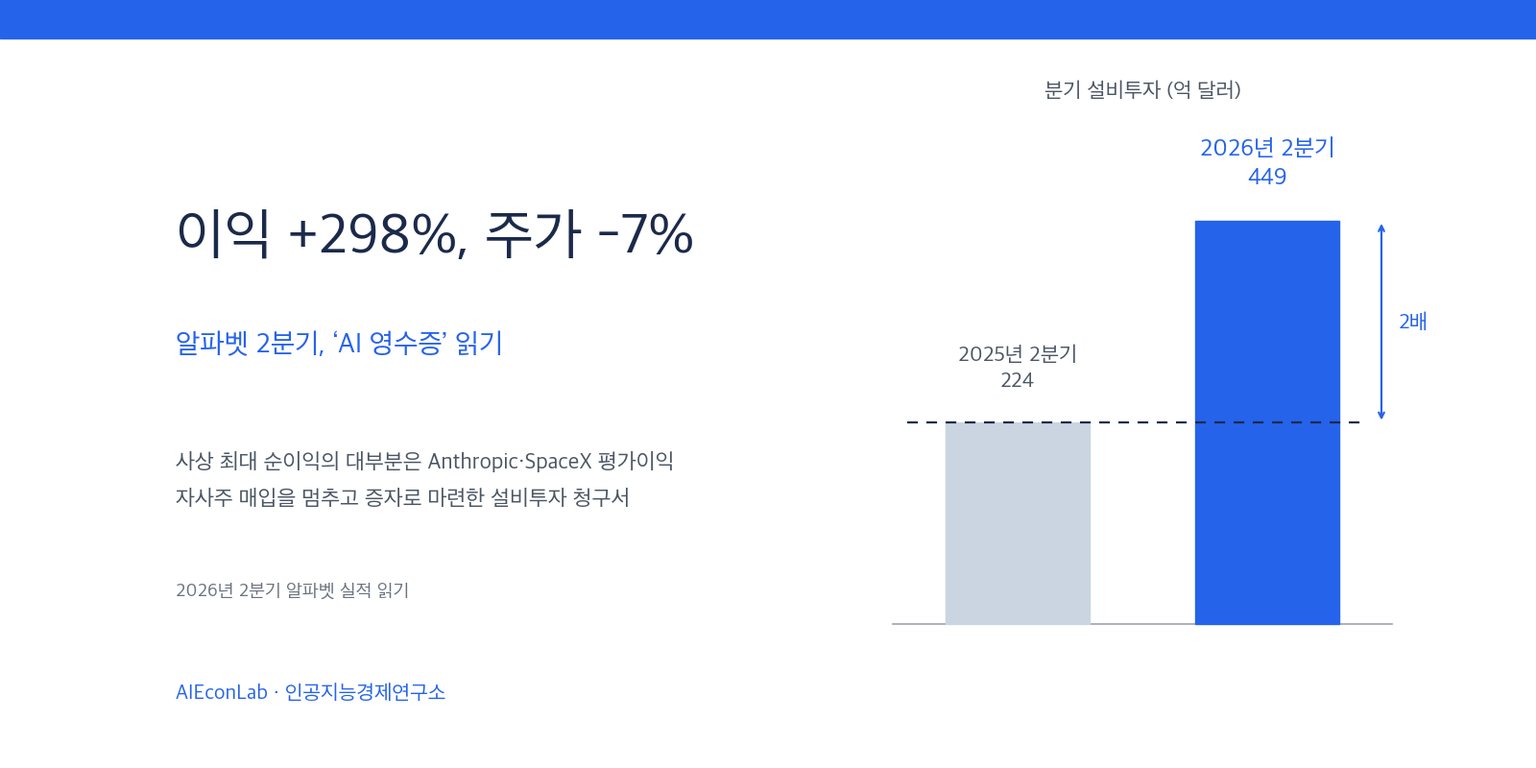
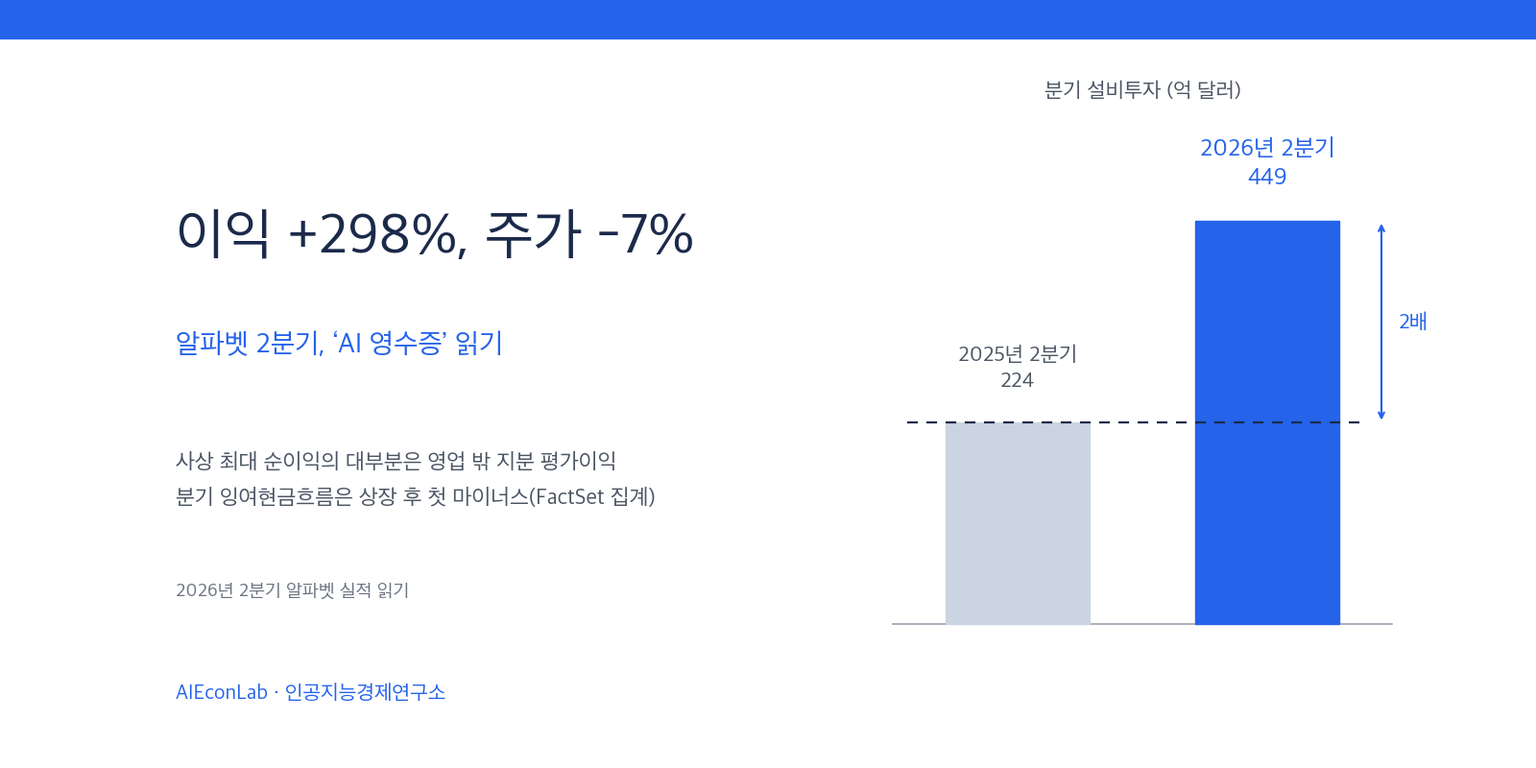
fix(trend14): 게시 전 리뷰 반영 — 인과·출처 귀속 교정, 본문 그림 static 경로 이관
- 증자 인과 교정: '부족한 현금 조달' → TTM FCF +533억·현금 2,425억 병기(공식 조정표 확인)
- 평가이익 귀속: 10-Q 기준 SpaceX(6/12 상장, 지분 4.9%·940억)+미공개 비상장사로 정정,
  Anthropic은 보도·BofA 추정으로 분리, 자체 14% 계산 삭제
- EPS 6.26달러를 발표문 각주 공식치로 귀속(219억·771억 병기), FCF 첫 마이너스는 FactSet 집계로 귀속
- 수주잔고 '두 배' 오류 → 1,060억→5,140억(4.85배), 서버 60%는 2분기 기준으로 한정
- 감가상각 1/6 병치 → 증가율 대비(2배 vs +42%)와 시점 불일치 명시, 그림 2 재생성
- 한국 GDI 연결을 trend13 식별 한계와 일관된 '검증 가설'로 하향, Azure 35% 기준선 삭제
- SK하이닉스 컨센서스 7월 하순 집계(83조/64조)로 갱신, 은유를 '영수증' 중심으로 정리
- 본문 그림 assets→static 이관(404 방지), 커버 문구 교정, 검증 README 전면 갱신

Changed region(s): [[0.0938, 0.5938, 0.4375, 0.6562]]

diff --git a/docs/03-analysis/alphabet-receipts/scripts/make_cover.py b/docs/03-analysis/alphabet-receipts/scripts/make_cover.py
@@ -49,20 +49,19 @@ ax.add_patch(Rectangle((0, 760), 1600, 40, color=BLUE, zorder=5))
 
 # ---- left text column ----
 LX = 183
-ax.text(LX, 555, "이익 +298%, 주가 -7%", fontsize=42, color=NAVY,
-        fontweight="bold", va="center", ha="left")
-ax.text(LX, 442, "알파벳 2분기, ‘AI 영수증’ 읽기", fontsize=21,
-        color=BLUE, va="center", ha="left", fontweight="medium")
-
-ax.text(LX, 300, "사상 최대 순이익의 대부분은 Anthropic·SpaceX 평가이익\n"
-                 "자사주 매입을 멈추고 증자로 마련한 설비투자 청구서",
-        fontsize=16.5, color=GRAY, va="center", ha="left", linespacing=1.9)
-
-ax.text(LX, 185, "2026년 2분기 알파벳 실적 읽기", fontsize=14,
-        color=LGRAY, va="center", ha="left")
-
-ax.text(LX, 78, "AIEconLab · 인공지능경제연구소", fontsize=15.5,
-        color=BLUE, va="center", ha="left", fontweight="medium")
+left_texts = [
+    ax.text(LX, 555, "이익 +298%, 주가 -7%", fontsize=42, color=NAVY,
+            fontweight="bold", va="center", ha="left"),
+    ax.text(LX, 442, "알파벳 2분기, ‘AI 영수증’ 읽기", fontsize=21,
+            color=BLUE, va="center", ha="left", fontweight="medium"),
+    ax.text(LX, 300, "사상 최대 순이익의 대부분은 영업 밖 지분 평가이익\n"
+                     "분기 잉여현금흐름은 상장 후 첫 마이너스(FactSet 집계)",
+            fontsize=16.5, color=GRAY, va="center", ha="left", linespacing=1.9),
+    ax.text(LX, 185, "2026년 2분기 알파벳 실적 읽기", fontsize=14,
+            color=LGRAY, va="center", ha="left"),
+    ax.text(LX, 78, "AIEconLab · 인공지능경제연구소", fontsize=15.5,
+            color=BLUE, va="center", ha="left", fontweight="medium"),
+]
 
 # ---- right graphic: quarterly capex, doubled in a year ----
 ax.text(1190, 706, "분기 설비투자 (억 달러)", fontsize=16, color=GRAY,
@@ -99,6 +98,14 @@ ax.annotate("", xy=(bx2 + bw + 44, base_y + h_now),
             arrowprops=dict(arrowstyle="<->", color=BLUE, lw=1.6), zorder=5)
 ax.text(bx2 + bw + 62, base_y + (h_prev + h_now) / 2, "2배", fontsize=16,
         color=BLUE, ha="left", va="center", fontweight="bold")
+
+# 렌더링 후 잘림·침범 검사: 좌측 텍스트가 우측 그래픽 영역(x=930~)을 넘지 않는지
+fig.canvas.draw()
+rend = fig.canvas.get_renderer()
+for t in left_texts:
+    x1 = t.get_window_extent(renderer=rend).x1
+    assert x1 < 930, ("좌측 텍스트가 그래픽 영역 침범", t.get_text()[:14], round(x1))
+print("layout checks passed: left column clear of graphic area")
 
 args.out.parent.mkdir(parents=True, exist_ok=True)
 fig.savefig(args.out)

diff --git a/docs/03-analysis/alphabet-receipts/scripts/fig02_capex_depreciation.py b/docs/03-analysis/alphabet-receipts/scripts/fig02_capex_depreciation.py
@@ -8,7 +8,8 @@
 
 검산(assert):
 - 설비투자 2.00배, 감가상각 1.42배
-- 2026년 2분기 감가상각/설비투자 = 15.8% (약 6분의 1)
+- 두 항목은 서로 다른 시점의 자산을 가리키므로 비율(당기 감가상각/당기 설비투자)을
+  '당기 지출의 비용 반영률'로 해석하지 않는다(그림·주석에도 그렇게 표기하지 않음)
 
 사용법: python3 fig02_capex_depreciation.py [--out PNG] [--font FONT]
 의존성: matplotlib
@@ -29,8 +30,6 @@ DEP = {"2025 2분기": 4_998, "2026 2분기": 7_104}
 
 assert abs(CAPEX["2026 2분기"] / CAPEX["2025 2분기"] - 2.0) < 0.01
 assert abs(DEP["2026 2분기"] / DEP["2025 2분기"] - 1.42) < 0.01
-ratio = DEP["2026 2분기"] / CAPEX["2026 2분기"]
-assert abs(ratio - 1 / 6.32) < 0.005  # 약 6분의 1
 
 
 def main():
@@ -64,7 +63,7 @@ def main():
                     fontsize=15.5, fontweight="bold", ha="center", va="bottom",
                     color=BLUE if v in cap else "#57647a"))
 
-    ann = ax.annotate("지출의 약 6분의 1만\n지금 비용으로 반영",
+    ann = ax.annotate("지출은 2배로 뛰는 동안\n비용화(감가상각)는 +42%",
                       xy=(xs[1] + bw / 2 + 0.13, dep[1] * 0.55),
                       xytext=(1.36, 245), fontsize=13.5, fontweight="bold",
                       color=NAVY, ha="center", va="center",
@@ -89,7 +88,7 @@ def main():
         t.set_color(NAVY)
 
     fig.subplots_adjust(left=0.10, right=0.97, top=0.89, bottom=0.17)
-    note1 = fig.text(0.10, 0.068, "주: 설비투자는 취득 시점이 아니라 이후 수년에 걸쳐 감가상각으로 비용화된다. 두 항목 모두 분기 기준.",
+    note1 = fig.text(0.10, 0.068, "주: 감가상각은 과거에 취득한 자산에서 발생해 당기 설비투자와 1대 1로 대응하지 않는다. 두 항목 모두 분기 기준.",
                      fontsize=11.8, color=NOTE)
     note2 = fig.text(0.10, 0.028, "자료: Alphabet 2026년 2분기 실적 발표문(2026.7.22) 현금흐름표  |  계산: AIEconLab",
                      fontsize=11.8, color=NOTE)

diff --git a/docs/03-analysis/alphabet-receipts/scripts/fig01_cash_receipts.py b/docs/03-analysis/alphabet-receipts/scripts/fig01_cash_receipts.py
@@ -103,7 +103,7 @@ def main():
     fig.subplots_adjust(left=0.10, right=0.97, top=0.90, bottom=0.235)
     note1 = fig.text(0.10, 0.112, "주: 잉여현금흐름(-58.55억 달러, 표기 -59) = 영업활동 현금흐름 - 유형자산 취득(비GAAP).",
                      fontsize=11.8, color=NOTE)
-    note2 = fig.text(0.10, 0.070, "‘상장 후 첫 마이너스’는 현지 보도의 집계이며, 막대 표기는 억 달러 반올림.",
+    note2 = fig.text(0.10, 0.070, "‘상장 후 첫 마이너스’는 FactSet 집계(현지 보도 인용)이며, 막대 표기는 억 달러 반올림.",
                      fontsize=11.8, color=NOTE)
     note3 = fig.text(0.10, 0.028, "자료: Alphabet 2026년 2분기 실적 발표문(2026.7.22) 현금흐름표  |  계산: AIEconLab",
                      fontsize=11.8, color=NOTE)

diff --git a/content/english/post/trend14_alphabet_receipts.md b/content/english/post/trend14_alphabet_receipts.md
@@ -7,7 +7,7 @@ images:
 #author
 author: "송하윤 (Hayun Song)"
 # description
-description: "알파벳 2026년 2분기 실적의 세 겹 읽기 — 순이익 1,121억 달러의 대부분을 만든 Anthropic·SpaceX 평가이익 980억 달러, 상장 후 처음이라고 보도된 잉여현금흐름 -59억 달러와 연간 2,000억 달러로 올라간 설비투자 가이던스, 클라우드 +82%와 수주잔고 5,140억 달러의 매출 증거, 그리고 7월 29~30일 SK하이닉스·FOMC·마이크로소프트·메타·미국 GDP로 이어지는 검증 일정"
+description: "알파벳 2026년 2분기 실적의 세 겹 읽기 — 순이익 1,121억 달러의 대부분을 만든 지분증권 평가이익 990억 달러의 착시, FactSet 집계상 상장 후 처음인 분기 잉여현금흐름 -59억 달러와 2,000억 달러대로 올라간 설비투자 가이던스, 클라우드 +82%와 수주잔고 5,140억 달러의 매출 증거, 그리고 7월 29~30일 SK하이닉스·FOMC·마이크로소프트·메타·미국 GDP로 이어지는 검증 일정"
 # Taxonomies
 categories: ["AI_트렌드"]
 tags: ["AI","ECONOMICS","BIGTECH","CAPEX","CLOUD","SEMICONDUCTOR"]
@@ -17,29 +17,29 @@ draft: false
 
 지난 22일(현지시간) 알파벳이 2026년 2분기 실적을 발표했습니다. 매출은 1,198억 달러로 전년 동기 대비 24% 늘었고, 보통주주 귀속 순이익은 1,121억 달러로 **298% 늘었습니다**. 회사 역사상 가장 큰 분기 이익입니다. 그리고 이튿날(23일) 뉴욕 증시에서 알파벳 주가는 **약 7% 급락**해 4월 중순 이후 가장 낮은 수준으로 내려갔습니다.
 
-사상 최대 이익에 주가 급락이라는 조합은 형용모순처럼 보이지만, 이번 실적 시즌에 월가가 빅테크를 심사하는 기준을 알면 자연스럽게 읽힙니다. 미국 언론은 그 기준을 ‘영수증(receipts)’이라는 단어로 요약합니다. 빅테크가 올해 합쳐 7,000억 달러 가까이 쓰겠다고 예고한 AI 설비투자가 정말 돈이 되는지, 증빙을 내놓으라는 것입니다. 알파벳은 이번 시즌 빅테크 가운데 처음으로 답안지를 냈고, 시장은 이익의 크기가 아니라 영수증의 항목을 읽었습니다.
+사상 최대 이익에 주가 급락이라는 조합은 형용모순처럼 보이지만, 이번 실적 시즌에 월가가 빅테크를 심사하는 기준을 알면 자연스럽게 읽힙니다. 미국 언론은 그 기준을 ‘영수증(receipts)’이라는 단어로 요약합니다. 빅테크가 올해 합쳐 7,000억 달러 가까이 쓰겠다고 예고한 AI 설비투자가 정말 돈이 되는지, 증빙을 내놓으라는 것입니다. 알파벳은 이번 시즌 빅테크 가운데 처음으로 영수증을 내밀었고, 시장은 이익의 크기가 아니라 영수증의 항목을 읽었습니다.
 
 이 글은 세 가지를 합니다. 먼저 1,121억 달러라는 숫자에서 착시를 걷어내고, 다음으로 이번 발표의 진짜 뉴스인 현금흐름과 커진 청구서를 읽고, 마지막으로 이것이 다음 주 한국의 일정과 어떻게 연결되는지 봅니다.
 
-## 걷어내기: 경쟁사가 만들어 준 사상 최대 이익
+## 걷어내기: 영업 밖에서 온 980억 달러
 
-먼저 이익의 분해입니다. 이번 분기 세전이익 1,388억 달러 가운데 영업이익은 408억 달러입니다. 전년 동기보다 30% 늘었고 영업이익률도 2%포인트 오른 34%였으니 그 자체로 좋은 성적이지만, 순이익을 네 배 가까이로 만든 힘은 아닙니다. 나머지를 채운 것은 **기타수익 980억 달러**이며(전년 동기에는 27억 달러였습니다), 그 정체를 회사 스스로 [발표문](https://s206.q4cdn.com/479360582/files/doc_financials/2026/q2/2026q2-alphabet-earnings-release.pdf)에 “주로 지분증권의 순미실현 평가이익”이라고 적었습니다.
+먼저 이익의 분해입니다. 이번 분기 세전이익 1,388억 달러 가운데 영업이익은 408억 달러입니다. 전년 동기보다 30% 늘었고 영업이익률도 2%포인트 오른 34%였으니 그 자체로 좋은 성적이지만, 순이익을 네 배 가까이로 만든 힘은 아닙니다. 나머지를 채운 것은 **기타수익 980억 달러**이며(전년 동기에는 27억 달러였습니다), 그 정체를 회사 스스로 [발표문](https://s206.q4cdn.com/479360582/files/doc_financials/2026/q2/2026q2-alphabet-earnings-release.pdf)에 “주로 지분증권의 순미실현 평가이익”이라고 적었습니다. 기타수익 안의 지분증권 이익만 따로 보면 990억 달러이고, 다른 항목의 손실이 이를 일부 상쇄한 결과가 980억 달러입니다.
 
-평가이익의 출처가 흥미롭습니다. 현지 보도를 종합하면 가장 큰 몫은 알파벳이 약 14%를 보유한 Anthropic입니다. Anthropic의 기업가치는 2분기 중 650억 달러 규모 투자 유치를 거치며 3,800억 달러에서 9,650억 달러로 뛰었고, 뱅크오브아메리카는 이 재평가만으로 약 800억 달러의 평가이익이 발생한 것으로 추산합니다(14% 지분에 5,850억 달러의 가치 상승을 곱하는 단순 계산으로도 820억 달러 안팎이 나옵니다). 여기에 SpaceX 지분 등의 평가이익이 더해집니다. 현행 미국 회계기준은 이런 지분 가치의 변동을 실현 여부와 무관하게 당기 손익에 반영하도록 하고 있으니, 절차상 이상한 숫자는 아닙니다.
+평가이익의 출처는 공식 확인과 추정을 구분해 읽어야 합니다. 분기 보고서(10-Q)가 밝힌 주된 원천은 두 곳, 곧 지난 6월 12일 상장한 SpaceX(알파벳 지분율 약 4.9%, 6월 말 평가액 940억 달러)와 이름을 공개하지 않은 비상장사이며, 종목별 기여액은 공개되지 않았습니다. 이 비상장사를 알파벳이 약 14%를 보유한 Anthropic으로 보는 것이 현지 보도들의 일치된 추정입니다. Anthropic의 기업가치는 2분기 중 650억 달러 규모 투자 유치를 거치며 3,800억 달러에서 9,650억 달러로 뛰었고, 뱅크오브아메리카는 이 재평가에서 약 800억 달러의 평가이익이 발생했다고 추산합니다. 현행 미국 회계기준은 상장 지분의 가격 변동은 물론, 비상장 지분도 이번 투자 유치처럼 관측 가능한 거래가 생기면 재측정해 당기 손익에 반영하도록 하니, 절차상 이상한 숫자는 아닙니다.
 
-다만 세 가지 단서가 붙습니다. 첫째, 이것은 현금이 들어온 이익이 아니라 장부 위의 이익입니다. 둘째, 자사의 가장 직접적인 프런티어 모델 경쟁사의 몸값이 올라서 생긴 이익입니다. 경쟁에서 이기면 본업이 벌고 경쟁사가 앞서가면 지분이 버는, 경쟁의 양쪽에 걸쳐 둔 포트폴리오의 결과인 셈입니다. 셋째, 시장은 이 숫자를 실력으로 치지 않았습니다. 월가 집계로 주당순이익 9.11달러 가운데 6.26달러가 투자 평가이익의 기여였고, 이를 걷어낸 영업의 성적은 시장 예상을 크게 벗어나지 않는 수준이었습니다. 순이익 급증분의 대부분이 영업 밖에서 왔다면, 심사는 결국 영업 안쪽의 두 장부, 곧 현금과 매출로 넘어갑니다.
+다만 세 가지 단서가 붙습니다. 첫째, 이것은 현금이 들어온 이익이 아니라 장부 위의 이익입니다. 둘째, 보도의 추정이 맞는다면 이 이익의 큰 몫은 자사의 가장 직접적인 프런티어 모델 경쟁사 몸값이 올라서 생긴 셈이 됩니다. 경쟁에서 이기면 본업이 벌고 경쟁사가 앞서가면 지분이 버는, 경쟁의 양쪽에 걸쳐 둔 포트폴리오입니다. 셋째, 시장은 이 숫자를 실력으로 치지 않았습니다. 발표문 각주는 지분증권 이익 990억 달러가 법인세를 219억 달러, 순이익을 771억 달러, 희석 주당순이익을 6.26달러(9.11달러 중) 늘렸다고 직접 명시합니다. 이를 걷어낸 영업의 성적은 시장 예상을 크게 벗어나지 않는 수준이었습니다. 순이익 급증분의 대부분이 영업 밖에서 왔다면, 심사는 결국 영업 안쪽의 두 장부, 곧 현금과 매출로 넘어갑니다.
 
-## 진짜 뉴스: 번 것보다 많이 썼고, 그래서 조달했다
+## 현금의 산수: 분기 잉여현금흐름은 음수, 조달은 확대
 
-이번 분기 알파벳은 영업활동으로 391억 달러의 현금을 만들었고, 설비투자에 449억 달러를 썼습니다. 잉여현금흐름은 **-59억 달러**. 분기 잉여현금흐름이 마이너스로 돌아선 것은 상장 이후 처음이라는 보도가 나왔습니다. 설비투자 449억 달러는 전년 동기(224억 달러)의 정확히 두 배이고, 분기 매출의 37%에 해당합니다.
+이번 분기 알파벳은 영업활동으로 391억 달러의 현금을 만들었고, 설비투자에 449억 달러를 썼습니다. 잉여현금흐름은 **-59억 달러**. FactSet 집계로는 2004년 상장 이후 처음 있는 분기 마이너스입니다. 발표문의 조정표가 보여주는 경로도 뚜렷합니다. 분기 잉여현금흐름은 최근 네 분기 동안 245억 → 246억 → 101억 → -59억 달러로 내려왔습니다. 설비투자 449억 달러는 전년 동기(224억 달러)의 정확히 두 배이고, 분기 매출의 37%에 해당합니다.
 
 ![영업현금흐름 391억 달러에서 설비투자 449억 달러를 빼면 잉여현금흐름은 -59억 달러](/images/post/trend14/fig01_cash_receipts.png "그림 1: 2026년 2분기 알파벳 현금의 산수. 영업활동 현금흐름 391억 달러, 설비투자(유형자산 취득) 449억 달러, 잉여현금흐름 -59억 달러(반올림 전 -58.6억 달러). (자료: 알파벳 2분기 실적 발표문 현금흐름표. 계산: 필자)")
 
 <small>[그림 1 원본 크게 보기](/images/post/trend14/fig01_cash_receipts.png)</small>
 
-부족한 현금은 조달로 메웠습니다. 발표문에 따르면 알파벳은 6월에 보통주와 의무전환우선주를 발행해 **496억 달러를 순조달**했고, 사용 목적에 “AI 인프라와 글로벌 컴퓨트 확장을 위한 설비투자를 포함한 일반 기업 목적”을 명시했습니다. 분기 중 선순위 무담보 채권으로도 203억 달러를 조달했습니다. 전년 동기 132억 달러였던 자사주 매입은 이번 분기 0이 됐습니다. 번 현금을 주주에게 돌려주던 회사가 주주에게 주식을 팔아 설비투자 자금을 마련하는 회사로 자세를 바꾼 것이고, 그 흔적은 재무상태표에 고스란히 쌓였습니다. 반년 새 순유형자산은 2,466억 달러에서 3,212억 달러로 746억 달러 늘었고, 장기부채는 465억 달러에서 982억 달러로 두 배 이상이 됐습니다.
+이것을 유동성 부족으로 읽어서는 안 됩니다. 같은 조정표 기준으로 최근 12개월 잉여현금흐름은 여전히 533억 달러 흑자이고, 분기 말 보유 현금·유가증권은 2,425억 달러에 이릅니다. 정확한 독법은 이렇습니다. 지출이 분기 영업현금을 앞지르기 시작하자 회사가 조달의 폭을 넓혔습니다. 발표문에 따르면 알파벳은 6월에 보통주와 의무전환우선주를 발행해 **496억 달러를 순조달**했고, 사용 목적에 “AI 인프라와 글로벌 컴퓨트 확장을 위한 설비투자를 포함한 일반 기업 목적”을 명시했습니다. 분기 중 선순위 무담보 채권으로도 203억 달러를 조달했습니다. 전년 상반기 283억 달러였던 자사주 매입은 올해 상반기 집행이 0입니다. 주주 환원에 쓰이던 현금 여력이 설비투자 쪽으로 옮겨 가는 방향 전환이고, 그 흔적은 재무상태표에 쌓였습니다. 반년 새 순유형자산은 2,466억 달러에서 3,212억 달러로 746억 달러 늘었고, 장기부채는 465억 달러에서 982억 달러로 두 배 이상이 됐습니다.
 
-그리고 가이던스. 회사는 올해 연간 설비투자 전망을 1,800억~1,900억 달러에서 **1,950억~2,050억 달러**로 150억 달러 올렸고(약 60%는 서버, 나머지는 데이터센터와 네트워킹), 내년에는 더 늘어난다고 예고했습니다. 중간값 2,000억 달러는 2024년 연간 설비투자(525억 달러)의 약 네 배입니다. 업계 전체로 보면, 지난 5월 집계된 5개사(마이크로소프트·알파벳·아마존·메타·오라클) 합산 전망 6,600억~6,900억 달러에 ‘7,000억 달러’라는 헤드라인이 이미 붙어 있었는데, 알파벳 한 곳의 상향만으로 그 상단이 다시 밀려 올라갔습니다.
+그리고 가이던스. 회사는 올해 연간 설비투자 전망을 1,800억~1,900억 달러에서 **1,950억~2,050억 달러**로 150억 달러 올렸고, 내년에는 더 늘어난다고 예고했습니다. 콘퍼런스콜 보도에 따르면 2분기 기술 인프라 투자의 약 60%는 서버, 나머지는 데이터센터와 네트워킹 몫이었습니다. 중간값 2,000억 달러는 2024년 연간 설비투자(525억 달러)의 약 네 배입니다. 업계 전체로 보면, 지난 5월 집계된 5개사(마이크로소프트·알파벳·아마존·메타·오라클) 합산 전망 6,600억~6,900억 달러에 ‘7,000억 달러’라는 헤드라인이 이미 붙어 있었는데, 알파벳 한 곳의 상향만으로 그 상단이 다시 밀려 올라갔습니다.
 
 주가가 판정한 것이 바로 이 대목입니다. 이튿날의 7% 하락으로 알파벳 주가는 넉 달 만에 100일 이동평균선 아래로 내려갔고, 다음 주 실적 발표를 앞둔 메타 등의 주가도 함께 눌렸습니다. 시장이 문제 삼은 것은 실적이 아니라 청구서가 커지는 속도였습니다.
 
@@ -47,39 +47,40 @@ draft: false
 
 청구서만 커진 것은 아닙니다. 지출의 반대편 증거도 이번 발표에서 뚜렷해졌습니다.
 
-클라우드 부문 매출은 248억 달러로 **82% 늘며** 성장률이 크게 가속됐고(회사는 기업용 AI 인프라와 AI 솔루션 수요를 이유로 들었습니다), 부문 영업이익은 28억 달러에서 88억 달러로, 영업이익률은 20.7%에서 35.6%로 뛰었습니다. 아직 매출로 잡히지 않은 계약, 곧 수주잔고는 5,140억 달러로 1년 새 두 배 가까이 늘었다는 집계입니다. 물량 지표도 있습니다. 발표문에서 순다르 피차이 CEO는 Gemini 모델이 분당 220억 개의 API 토큰을 처리하고 Gemini 앱의 월간 이용자가 9억 5,000만 명이라고 밝혔는데, 토큰 처리량의 직전 분기 공개치는 160억 개였습니다. [‘예측이 값싸지는 시대’](/post/column3_economists_job/)에서 다뤘던 방향 그대로, 단가는 떨어지는데 물량과 매출이 그보다 빠르게 늘고 있는 것입니다.
+클라우드 부문 매출은 248억 달러로 **82% 늘며** 성장률이 크게 가속됐고(회사는 기업용 AI 인프라와 AI 솔루션 수요를 이유로 들었습니다), 부문 영업이익은 28억 달러에서 88억 달러로, 영업이익률은 20.7%에서 35.6%로 뛰었습니다. 아직 매출로 잡히지 않은 계약, 곧 수주잔고는 5,140억 달러로, 1년 전 공개치(1,060억 달러)의 다섯 배 가까이가 됐습니다. 물량 지표도 있습니다. 발표문에서 순다르 피차이 CEO는 Gemini 모델이 분당 220억 개의 API 토큰을 처리하고 Gemini 앱의 월간 이용자가 9억 5,000만 명이라고 밝혔는데, 토큰 처리량의 직전 분기 공개치는 160억 개였습니다. 이번 공시에 단가 자료는 없어 가격 대비 물량의 속도까지 판정할 수는 없지만, 사용량과 매출이 함께 빠르게 늘고 있다는 사실 자체가 [‘예측이 값싸지는 시대’](/post/column3_economists_job/)가 주목했던 수요 반응의 실물 증거입니다.
 
 2024년 여름 세쿼이아캐피털의 데이비드 칸이 [‘AI의 6,000억 달러 질문’](https://www.sequoiacap.com/article/ais-600b-question/)을 던지고 필자가 [그 무렵의 거품 논쟁](/post/trend5_ai_hype/)을 정리했을 때, 회의론의 핵심 근거는 투자와 매출의 간극이었습니다. 설비투자는 눈에 보이는데 그것을 정당화할 매출이 보이지 않는다는 것. 이번 분기의 클라우드 숫자는 그 간극이 최소한 한 회사에서는 좁혀지고 있음을 보여주는, 지금까지 나온 것 중 가장 강한 실적 증거입니다.
 
-다만 반대면에도 반대면이 있습니다. 오늘의 이익률에는 오늘의 지출이 다 반영되어 있지 않습니다. 서버와 데이터센터는 사 오는 분기에 한꺼번에 비용이 되는 것이 아니라 수년에 걸쳐 감가상각으로 비용화됩니다. 이번 분기 알파벳의 감가상각비는 71억 달러로, 같은 분기 설비투자 449억 달러의 약 6분의 1입니다. 지금의 지출은 앞으로 몇 년간 손익계산서에 차례로 도착할 예정이고, 클라우드 마진 35.6%는 그 청구서가 다 도착하기 전의 숫자입니다. 경영진이 투자 지속의 조건을 “매력적인 수익률이 보이는 한”이라고 달아 둔 것도 이 시차를 의식한 문장으로 읽힙니다.
+다만 반대면에도 반대면이 있습니다. 오늘의 이익률에는 오늘의 지출이 다 반영되어 있지 않습니다. 서버와 데이터센터는 사 오는 분기에 한꺼번에 비용이 되는 것이 아니라 이후 수년에 걸쳐 감가상각으로 비용화됩니다. 그래서 이번 분기 설비투자가 전년 동기의 두 배로 뛰는 동안, 과거 취득분에서 발생하는 감가상각비는 50억 달러에서 71억 달러로 42% 늘어나는 데 그쳤습니다. 두 숫자는 서로 다른 시점의 자산을 가리키므로 1대 1로 대응하지 않지만, 방향은 분명합니다. 지금의 지출은 앞으로 몇 년간 손익계산서에 차례로 도착할 예정이고, 클라우드 마진 35.6%는 그 청구서가 다 도착하기 전의 숫자입니다. 경영진이 투자 지속의 조건을 “매력적인 수익률이 보이는 한”이라고 달아 둔 것도 이 시차를 의식한 문장으로 읽힙니다.
 
-![설비투자는 전년 동기의 2배가 됐지만 감가상각비는 아직 그 6분의 1 수준이다](/images/post/trend14/fig02_capex_depreciation.png "그림 2: 지출과 비용 사이의 시차. 2025년 2분기와 2026년 2분기의 설비투자(유형자산 취득)와 유형자산 감가상각비 비교. 설비투자는 수년에 걸쳐 감가상각으로 비용화되므로, 현재 마진에는 최근 지출의 일부만 반영되어 있다. (자료: 알파벳 2분기 실적 발표문 현금흐름표. 계산: 필자)")
+![설비투자는 전년 동기 대비 2배가 됐지만 감가상각비 증가는 42%에 그쳤다](/images/post/trend14/fig02_capex_depreciation.png "그림 2: 지출과 비용 사이의 시차. 2025년 2분기와 2026년 2분기의 설비투자(유형자산 취득)와 유형자산 감가상각비. 감가상각은 과거에 취득한 자산에서 발생하는 비용이어서 당기 설비투자와 1대 1로 대응하지 않으며, 지출 급증기의 이익률에는 미래 비용이 아직 덜 실려 있다. (자료: 알파벳 2분기 실적 발표문 현금흐름표. 계산: 필자)")
 
 <small>[그림 2 원본 크게 보기](/images/post/trend14/fig02_capex_depreciation.png)</small>
 
 ## 미국의 청구서는 한국의 매출이 된다
 
-이 실적이 태평양 건너의 일만은 아니라는 점은 어제 글에서 이미 보았습니다. [2분기 한국 GDP 속보를 다룬 글](/post/trend13_gdp_q2_surprise/)에서 확인했듯, 한국의 2분기 실질 국내총소득(GDI)은 반도체 가격 상승에 힘입어 전년 동기 대비 15.6% 늘며 38년여 만에 가장 빠른 속도를 기록했습니다. 그 반도체 가격을 밀어 올리는 수요의 원천이 정확히 이 글의 주제, 곧 하이퍼스케일러의 설비투자입니다. 알파벳이 올해 쓰겠다는 2,000억 달러의 약 60%가 서버로 가고, AI 서버 원가의 큰 몫이 메모리입니다.
+이 실적이 태평양 건너의 일만은 아니라는 점은 어제 글에서 이미 보았습니다. [2분기 한국 GDP 속보를 다룬 글](/post/trend13_gdp_q2_surprise/)에서 확인했듯, 한국의 2분기 실질 국내총소득(GDI)은 반도체 가격 상승에 힘입어 전년 동기 대비 15.6% 늘며 38년여 만에 가장 빠른 속도를 기록했습니다. 다만 그 글에 적어 둔 식별의 한계는 여기서도 유효합니다. 한국은행 통계가 직접 보여주는 것은 반도체 가격 상승과 교역조건 개선까지이고, AI 데이터센터 투자는 이를 설명하는 유력한 수요 요인이지만 그 기여분을 국민계정에서 따로 떼어낼 수는 없습니다. 이 글이 확인한 하이퍼스케일러의 설비투자는 그 연결 가설의 수요 쪽 증거입니다. 알파벳의 2분기 기술 인프라 투자 중 약 60%가 서버로 갔고, AI 서버 원가의 큰 몫이 메모리입니다.
 
-그래서 오는 29일(수) SK하이닉스의 2분기 실적 발표는 같은 영수증의 반대쪽 면입니다. 6월 중순 집계된 증권가 컨센서스는 매출 81조8,000억 원대, 영업이익 62조5,000억 원 안팎으로 전년 동기 대비 각각 268%, 578% 증가입니다. 실제 숫자가 어디에 찍히든, 미국 빅테크의 자본지출이 한국 기업의 이익과 국민소득으로 번역되는 경로가 이번 주에 다시 숫자로 확인됩니다. 물론 어제 글의 경고를 여기에도 똑같이 적어 두어야 합니다. 같은 경로는 반대 방향으로도 작동합니다. 하이퍼스케일러의 청구서가 줄어드는 날, 가장 먼저 흔들리는 것도 이 경로입니다.
+그래서 오는 29일(수) 오전 SK하이닉스의 2분기 실적 발표는 이 연결 경로가 기업 단위의 출하·가격·이익에서 실제로 나타나는지 점검하는 다음 증거가 됩니다. 7월 하순 집계된 증권가 컨센서스는 매출 약 83조 원, 영업이익 약 64조 원입니다. 실제 숫자가 어디에 찍히든, 미국 빅테크의 자본지출이 한국 기업의 이익과 국민소득으로 번역된다는 가설이 이번 주에 다시 시험대에 오릅니다. 물론 어제 글의 경고를 여기에도 똑같이 적어 두어야 합니다. 같은 경로는 반대 방향으로도 작동합니다. 하이퍼스케일러의 청구서가 줄어드는 날, 가장 먼저 흔들리는 것도 이 경로입니다.
 
-## 29일과 30일: 이틀 안에 도착하는 네 장의 답안지
+## 29일과 30일: 이틀 사이 도착하는 다섯 장의 영수증
 
-알파벳의 실적을 중간고사의 첫 과목으로 만드는 일정이 다음 주에 몰려 있습니다. 한국시간 기준으로 이틀 사이 네 개의 발표가 이어집니다.
+알파벳의 영수증을 첫 장으로 만드는 일정이 다음 주에 몰려 있습니다. 한국시간 기준으로 이틀 사이 다섯 개의 발표가 네 차례에 걸쳐 이어집니다.
 
-* **29일(수) SK하이닉스 2분기 실적** — 알파벳을 비롯한 하이퍼스케일러의 서버 지출이 한국 반도체의 이익으로 얼마나 도착했는지가 확인됩니다.
+* **29일(수) 오전 SK하이닉스 2분기 실적** — 알파벳을 비롯한 하이퍼스케일러의 서버 지출이 한국 반도체의 이익으로 얼마나 도착했는지가 확인됩니다.
 * **30일(목) 새벽 3시 7월 FOMC 결과** — [신트라의 중앙은행들을 다룬 글](/post/column4_central_banks_ai/)의 질문, 곧 AI가 만든 성장의 실체가 확인되기 전에 통화정책이 먼저 움직일 수 있는가가 다시 시험대에 오릅니다. 지난 16일 기준금리를 올린 한국은행에 이어 이번에는 연준의 차례입니다.
-* **30일(목) 새벽 마이크로소프트·메타 실적** — 클라우드 +82%가 알파벳만의 숫자인지가 갈립니다. 실적 프리뷰들은 애저(Azure) 성장률 35%를 감속 판정의 기준선으로 거론하고, 메타에서는 AI 광고의 수익화와 설비투자 계획이 관전 포인트로 꼽힙니다.
+* **30일(목) 새벽 마이크로소프트·메타 실적** — 클라우드 +82%가 알파벳만의 숫자인지가 갈립니다. 애저(Azure) 성장률의 감속 여부, 그리고 메타의 AI 광고 수익화와 설비투자 계획이 관전 포인트로 꼽힙니다.
 * **30일(목) 밤 9시 30분 미국 2분기 GDP 속보** — 개별 기업의 설비투자가 거시 통계에 어떻게 잡히는지 확인할 차례입니다. 신트라 글에서 계산했던 1분기의 구도(성장률 2.1% 가운데 정보처리장비·지식재산생산물 투자의 기여 약 1.5%포인트)가 2분기에도 이어졌는지 볼 수 있습니다.
 
-정리하면 이렇습니다. 알파벳의 사상 최대 분기 이익은 대부분 경쟁사 몸값이 만들어 준 장부 위의 숫자였고, 진짜 뉴스는 그 아래에 있었습니다. 번 현금보다 많이 쓰기 시작했고(잉여현금흐름 -59억 달러), 연간 지출 전망을 다시 150억 달러 올렸으며(1,950억~2,050억 달러), 그 돈을 대기 위해 자사주 매입을 멈추고 증자와 차입으로 돌아섰습니다. 반대편에서는 클라우드 매출 +82%와 마진 개선이라는, 투자-매출 간극이 좁혀지고 있다는 지금까지 가장 강한 증거가 나왔습니다. 시장은 일단 청구서 쪽에 무게를 실어 주가를 7% 내렸습니다. 판정이 바뀔 기회는 바로 다음 주, 이틀 사이 네 번 옵니다. 그리고 그 첫 순서가 한국 기업이라는 사실이, 이 청구서의 경제학이 우리에게 남의 일이 아닌 이유입니다. 네 장의 답안지가 모이면 이 블로그에서 결산을 이어가겠습니다.
+정리하면 이렇습니다. 알파벳의 사상 최대 분기 이익은 대부분 영업 밖 지분 평가이익이 만들어 준 장부 위의 숫자였고, 진짜 뉴스는 그 아래에 있었습니다. 분기 기준으로 번 현금보다 많이 쓰기 시작했고(잉여현금흐름 -59억 달러), 연간 지출 전망을 다시 150억 달러 올렸으며(1,950억~2,050억 달러), 자사주 매입 집행을 멈춘 채 증자와 차입을 병행해 지출 확대를 뒷받침했습니다. 반대편에서는 클라우드 매출 +82%와 마진 개선이라는, 투자-매출 간극이 좁혀지고 있다는 지금까지 가장 강한 증거가 나왔습니다. 시장은 일단 청구서 쪽에 무게를 실어 주가를 7% 내렸습니다. 판정이 바뀔 기회는 바로 다음 주, 이틀 사이 다섯 번 옵니다. 그리고 그 첫 순서가 한국 기업이라는 사실이, 이 청구서의 경제학이 우리에게 남의 일이 아닌 이유입니다. 다섯 장의 영수증이 모이면 이 블로그에서 결산을 이어가겠습니다.
 
-**숫자의 기준** — 이 글의 알파벳 수치는 회사가 7월 22일(현지시간) 공시한 2분기 실적 발표문(무감사)을 기준으로 하며, 본문에서는 억 달러 단위로 반올림해 적었습니다. 잉여현금흐름 -59억 달러는 영업활동 현금흐름 39,069백만 달러에서 유형자산 취득 44,924백만 달러를 뺀 -5,855백만 달러의 반올림값입니다. 연간 설비투자 가이던스와 서버 배분 비중은 실적 콘퍼런스콜 관련 보도, 주가·컨센서스·평가이익의 세부 출처 등 시장 수치는 아래에 링크한 보도를 따랐습니다.
+**숫자의 기준** — 이 글의 알파벳 수치는 회사가 7월 22일(현지시간) 공시한 2분기 실적 발표문(무감사)을 기준으로 하며, 본문에서는 억 달러 단위로 반올림해 적었습니다. 잉여현금흐름 -59억 달러는 발표문 조정표의 -5,855백만 달러(영업활동 현금흐름 39,069백만 - 유형자산 취득 44,924백만), 최근 12개월 533억 달러는 같은 표의 53,273백만 달러입니다. 지분증권 이익의 법인세·순이익·주당순이익 효과(219억 달러·771억 달러·6.26달러)는 발표문 각주의 명시치입니다. ‘상장 후 첫 분기 마이너스’는 FactSet 집계를 인용한 보도이고, SpaceX 지분율·평가액과 비상장사 귀속은 분기 보고서(10-Q)와 이를 다룬 보도, 연간 설비투자 가이던스와 서버 비중·주가·컨센서스 등 나머지 시장 수치는 아래에 링크한 보도를 따랐습니다.
 
 ### 🔗 참고자료
 
 * 📄 [Alphabet - Second Quarter 2026 Results 발표문 (2026.7.22)](https://s206.q4cdn.com/479360582/files/doc_financials/2026/q2/2026q2-alphabet-earnings-release.pdf)
 * 📄 [SEC - Alphabet Form 8-K Exhibit 99.1 (2026.7.22)](https://www.sec.gov/Archives/edgar/data/0001652044/000165204426000066/googexhibit991q22026.htm)
+* 📄 [SEC - Alphabet Form 10-Q, 2026년 2분기 (평가이익 원천·SpaceX 지분)](https://www.sec.gov/Archives/edgar/data/0001652044/000165204426000071/goog-20260630.htm)
 * 📰 [Investing.com - Alphabet Q2 2026 slides: 24% revenue growth, cloud surges despite capex (2026.7.22)](https://www.investing.com/news/company-news/alphabet-q2-2026-slides-24-revenue-growth-cloud-surges-despite-capex-93CH-4807148)
 * 📰 [CNBC - Alphabet earnings takeaways: Q2 revenue beats, GOOGL stock sinks on 2026 capex hike (2026.7.22)](https://www.cnbc.com/2026/07/22/google-earnings-q2-goog-live-updates.html)
 * 📰 [Fortune - Anthropic and SpaceX just handed Google the biggest profit quarter in company history—on paper (2026.7.22)](https://fortune.com/2026/07/22/anthropic-spacex-investments-google-earnings-biggest-ever-profit-quarter/)
@@ -87,13 +88,15 @@ draft: false
 * 📰 [CoinCentral - How SpaceX and Anthropic Drove a Record $112B Profit Quarter (2026.7)](https://coincentral.com/alphabet-googl-stock-how-spacex-and-anthropic-drove-a-record-112b-profit-quarter/)
 * 📰 [The Motley Fool - Stock Market Today, July 23: Alphabet Slides 7% After Announcing 2026 Capex of Roughly $200 Billion (2026.7.23)](https://www.fool.com/coverage/stock-market-today/2026/07/23/stock-market-today-july-23-alphabet-slides-7-after-announcing-2026-capex-of-roughly-usd200-billion/)
 * 📰 [FX Leaders - Why Is Alphabet (GOOGL) Stock Down Today? (2026.7.23, 잉여현금흐름 -59억 달러 확인)](https://www.fxleaders.com/news/2026/07/23/why-is-alphabet-googl-stock-down-today-record-quarter-7-billion-capex-shock-shares-fall-anyway/)
+* 📰 [Axios - What worried investors about Alphabet (2026.7.23, ‘상장 후 첫 분기 마이너스 FCF’ FactSet 집계 인용)](https://www.axios.com/2026/07/23/ai-alphabet-google-earnings)
+* 📰 [The Motley Fool - Alphabet Just Revealed a $94 Billion Stake in SpaceX (2026.7.23)](https://www.fool.com/investing/2026/07/23/alphabet-just-revealed-a-94-billion-stake-in-space/)
 * 📰 [Yahoo Finance - Google's extreme AI capex spending plans trigger a technical warning on the stock price (2026.7)](https://finance.yahoo.com/markets/stocks/article/googles-extreme-ai-capex-spending-plans-trigger-a-technical-warning-on-the-stock-price-120952068.html)
 * 📰 [Invezz - Big tech earnings outlook: Wall Street demands receipts on $700b AI spree (2026.7.18)](https://invezz.com/news/2026/07/18/big-tech-earnings-outlook-wall-street-demands-receipts-on-700b-ai-spree/)
 * 📊 [Futurum - AI Capex 2026: The $690B Infrastructure Sprint (2026)](https://futurumgroup.com/insights/ai-capex-2026-the-690b-infrastructure-sprint/)
 * 📊 [24/7 Wall St. - Hyperscalers Hit $700 Billion in 2026 AI Spending Plans (2026.5.1)](https://247wallst.com/investing/2026/05/01/hyperscalers-hit-700-billion-in-2026-ai-spending-plans/)
 * 📄 [Sequoia Capital - David Cahn, AI's $600B Question (2024.6)](https://www.sequoiacap.com/article/ais-600b-question/)
-* 📰 [파이낸셜투데이 - 삼성·SK하이닉스, 2분기도 최대 실적 예고…‘AI·범용 D램’ 동반 강세 (2026.6.18, 컨센서스 집계)](https://www.ftoday.co.kr/news/articleView.html?idxno=360617)
-* 📰 [글로벌이코노믹 - HBM 호황 다음 질문은 수익성…SK하이닉스 실적 시즌 시험대 (2026.7.21)](https://www.g-enews.com/article/Industry/2026/07/20260721162309616112616b072_1)
+* 📰 [파이낸셜투데이 - 삼성·SK하이닉스, 2분기도 최대 실적 예고…‘AI·범용 D램’ 동반 강세 (2026.6.18)](https://www.ftoday.co.kr/news/articleView.html?idxno=360617)
+* 📰 [글로벌이코노믹 - HBM 호황 다음 질문은 수익성…SK하이닉스 실적 시즌 시험대 (2026.7.21, 7월 하순 컨센서스)](https://www.g-enews.com/article/Industry/2026/07/20260721162309616112616b072_1)
 * 📰 [다음/연합 - SK하이닉스, 29일 실적발표에 쏠린 눈 (2026.7)](https://v.daum.net/v/8zdd5lIkyu?f=p)
 * 📊 [Microsoft - 분기 실적 발표 일정 공지: 7월 29일 (2026.7.8)](https://news.microsoft.com/source/2026/07/08/microsoft-announces-quarterly-earnings-release-date-68/)
 * 📊 [StockTitan - Meta Sets Q2 2026 Earnings Release for July 29 (2026)](https://www.stocktitan.net/news/META/meta-to-announce-second-quarter-2026-sdasry9e3xzw.html)

diff --git a/docs/03-analysis/alphabet-receipts/README.md b/docs/03-analysis/alphabet-receipts/README.md
@@ -6,10 +6,13 @@
 
 - `data/2026q2-alphabet-earnings-release.pdf` — Alphabet Announces Second Quarter 2026
   Results (2026-07-22 공시, 10쪽, 무감사). 본문 재무 수치의 1차 출처.
-  원문: https://s206.q4cdn.com/479360582/files/doc_financials/2026/q2/2026q2-alphabet-earnings-release.pdf
-  (SEC 8-K Exhibit 99.1 동일 문서)
[1 lines of base64/hex data omitted]
+  - 원문: https://s206.q4cdn.com/479360582/files/doc_financials/2026/q2/2026q2-alphabet-earnings-release.pdf
+    (SEC 8-K Exhibit 99.1 동일 문서)
+- 10-Q(평가이익 원천·SpaceX 지분): https://www.sec.gov/Archives/edgar/data/0001652044/000165204426000071/goog-20260630.htm
+  (직접 fetch는 403 — 본문 인용은 10-Q를 인용한 복수 보도로 교차 확인)
 
-## 본문 수치 검증 기록 (2026-07-24 확인)
+## 본문 수치 검증 기록 (2026-07-24 확인, 07-24 오후 리뷰 반영)
 
 | 표기 | 원자료 값 | 출처 |
 |---|---|---|
@@ -19,44 +22,60 @@
 | 세전이익 1,388억 달러 | $138,753M | 발표문 손익계산서 |
 | 영업이익 408억 달러, +30%, 마진 34% | $40,770M (전년 $31,271M), 40,770/119,796=34.0% | 발표문 |
 | 기타수익 980억 달러(전년 27억) | $97,983M (전년 $2,662M); “net gain of $98.0 billion, primarily … net unrealized gains on our equity securities” | 발표문 |
-| EPS 중 평가이익 기여 6.26달러 | 월가 집계(세후 771억 달러 ≒ 6.26달러/주; 희석주식수 12,309M과 정합) | MediaPost·CoinCentral 보도 |
-| Anthropic 지분 ~14%, 기업가치 3,800억→9,650억 달러(650억 달러 라운드), BofA 평가이익 ~800억 달러 추산 | 보도 종합. 단순 검산: 0.14×(9,650-3,800)=819억 | Fortune·MediaPost·CoinCentral |
+| 지분증권 이익 990억 달러(기타수익과 구분) | 발표문 9쪽 Gain on equity securities $99,031M; 다른 항목 손실이 상쇄해 OI&E 순액 $97,983M | 발표문 9쪽 |
+| 지분증권 이익의 효과: 법인세 +219억, 순이익 +771억, 희석 EPS +6.26달러 | 발표문 9쪽 각주(1) 명시 — “increased … by $21.9 billion, $77.1 billion, and $6.26” | **발표문(공식). 초안의 ‘월가 집계’ 귀속은 오류였음 — 교정** |
+| 평가이익 원천: SpaceX(6/12 상장, 지분 약 4.9%, 6월 말 평가액 940억 달러) + 이름 미공개 비상장사, 종목별 기여액 비공개 | 10-Q 서술(보도 교차 확인) | 10-Q·Motley Fool·Yahoo |
+| 비상장사=Anthropic(지분 약 14%), 기업가치 3,800억→9,650억(650억 라운드), BofA 평가이익 약 800억 추산 | 보도·애널리스트 추정 — 회사 공식 확인 아님. 초안의 ‘14%×가치상승’ 자체 계산은 희석·주식종류 미반영이라 삭제 | Fortune·MediaPost·CoinCentral |
 | 영업현금흐름 391억 달러 | $39,069M | 발표문 현금흐름표 |
-| 설비투자 449억 달러(전년 224억의 2.00배) | $44,924M (전년 $22,446M) | 발표문 현금흐름표 |
-| 잉여현금흐름 -59억 달러 | 39,069-44,924=-5,855M(-58.55억, half-up 표기 -59). ‘상장 후 첫 마이너스’는 보도 집계 | 발표문 + FX Leaders·Yahoo |
-| 매출 대비 설비투자 37% | 44,924/119,796=37.5% | 계산 |
-| 6월 증자 순조달 496억 달러(사용 목적에 AI 인프라 설비투자 명시) | “aggregate net proceeds of $49.6 billion … including capital expenditures to scale AI infrastructure and global compute”; 재무활동 30,499+19,063=49,562M | 발표문 |
+| 설비투자 449억 달러(전년 224억의 2.00배), 매출 대비 37% | $44,924M (전년 $22,446M); 44,924/119,796=37.5% | 발표문 현금흐름표 |
+| 분기 잉여현금흐름 -59억 달러, 최근 네 분기 245→246→101→-59, TTM +533억 | 발표문 9쪽 조정표: 24,461 / 24,551 / 10,116 / (5,855), TTM 53,273 | 발표문 9쪽 |
+| ‘상장(2004) 후 첫 분기 마이너스 FCF’ | FactSet 집계 인용 보도(회사 표현 아님 — 귀속 명시) | Axios 등 |
+| 분기 말 현금·유가증권 2,425억 달러 | $242,474M (2025 말 $126,843M) | 발표문 재무상태표 |
+| 6월 증자 순조달 496억 달러(목적: “AI 인프라·글로벌 컴퓨트 확장 설비투자 포함 일반 기업 목적”) | 발표문 서술; 재무활동 30,499+19,063=49,562M | 발표문 |
 | 선순위 무담보 채권 순조달 203억 달러 | “net proceeds of $20.3 billion” | 발표문 |
-| 자사주 매입 0(전년 동기 132억) | $0 (전년 $13,238M) | 발표문 현금흐름표 |
-| 순유형자산 2,466억→3,212억(+746억, 반년) | $246,597M→$321,212M | 발표문 재무상태표 |
-| 장기부채 465억→982억 | $46,547M→$98,165M | 발표문 재무상태표 |
-| 연간 capex 가이던스 1,800~1,900→1,950~2,050억, 서버 ~60%, 2027년 추가 증가 시사 | 콘퍼런스콜 보도(발표문 본문에는 미기재) | CNBC·Investing.com·Motley Fool·FX Leaders |
-| 2024년 연간 설비투자 525억 달러 → 가이던스 중간값의 약 1/4 | 2024년 10-K 실적 $52.5B; 200/52.5=3.8배 | 공시(과거 실적) |
-| 클라우드 매출 248억, +82% | $24,768M (전년 $13,624M, +81.8%) | 발표문 세그먼트 |
-| 클라우드 영업이익 28억→88억, 마진 20.7%→35.6% | $2,826M→$8,814M; 8,814/24,768=35.6% | 발표문 세그먼트 |
-| 수주잔고 5,140억 달러(1년 새 약 2배) | 보도 집계($514B) | Investing.com·FX Leaders |
-| 토큰 분당 220억 개(직전 공개 160억), Gemini 앱 MAU 9.5억 | 발표문 CEO 인용(220억·9.5억), 160억은 실적 슬라이드 보도 | 발표문·Investing.com |
-| 감가상각비 71억(전년 50억) | $7,104M (전년 $4,998M); 7,104/44,924=15.8%≈1/6 | 발표문 현금흐름표 |
+| 자사주 매입: 올해 상반기 집행 0(전년 상반기 283억) | 분기 $0(전년 분기 $13,238M), YTD $0(전년 YTD $28,306M). 프로그램 폐지 여부는 미확인 → ‘집행 0’으로만 표기 | 발표문 현금흐름표 |
+| 순유형자산 2,466억→3,212억(+746억, 반년), 장기부채 465억→982억(두 배 이상) | $246,597M→$321,212M; $46,547M→$98,165M | 발표문 재무상태표 |
+| 연간 capex 가이던스 1,800~1,900→1,950~2,050억, 2027년 추가 증가 시사 | 콘퍼런스콜 보도(발표문 본문에는 미기재) | CNBC·Investing.com·Motley Fool |
+| 서버 비중 약 60% — **2분기 기술 인프라 투자 기준으로 한정 표기** (연간 배분으로 일반화하지 않음) | 콘퍼런스콜 보도 | Investing.com 등 |
+| 2024년 연간 설비투자 525억 달러(가이던스 중간값 2,000억의 약 1/4) | 2024년 10-K 실적 $52.5B | 공시(과거 실적) |
+| 클라우드 매출 248억(+82%), 부문 영업이익 28억→88억, 마진 20.7%→35.6% | $24,768M(전년 $13,624M); $2,826M→$8,814M | 발표문 세그먼트 |
+| 수주잔고 5,140억 달러 = 1년 전 공개치(1,060억)의 다섯 배 가까이 | 2025 Q2 콜 공개치 $106B → $514B(4.85배). 초안의 ‘1년 새 두 배’(FX Leaders 표현)는 오류라 폐기 | 2025 Q2 콜·Investing.com |
+| 토큰 분당 220억 개(직전 공개 160억), Gemini 앱 MAU 9.5억 | 발표문 CEO 인용(220억·9.5억), 160억은 실적 슬라이드 보도. 단가 자료 부재 → ‘단가 대비 속도’ 주장 안 함 | 발표문·Investing.com |
+| 감가상각비 71억(전년 50억, +42%) | $7,104M (전년 $4,998M) — 당기 capex와 1:1 대응 불가(자산 시점 상이), ‘당기 지출의 1/6 반영’식 해석 금지 | 발표문 현금흐름표 |
 | 주가: 발표 익일(7/23) 약 -7%, 319달러 안팎, 4월 중순 이후 최저, 100일선 하회 | 보도 종합(시간외 -3.65% $329.43 → 익일 -7%) | Motley Fool·Yahoo·FX Leaders·CNBC |
 | 5개사(MS·알파벳·아마존·메타·오라클) 2026년 합산 capex 6,600~6,900억, ‘7,000억’ 헤드라인 | 5월 집계 | Futurum·24/7 Wall St.·Yahoo |
-| SK하이닉스 2분기 컨센서스 매출 81.8조·영업익 62.5조(+268%/+578%), 발표일 7/29 | 6월 중순 집계 컨센서스·발표 일정 보도 | 파이낸셜투데이(6/18)·다음/연합 |
+| SK하이닉스 2분기 컨센서스 매출 약 83조·영업이익 약 64조(7월 하순 집계), 발표 7/29 오전 | 6월 집계(81.85조/62.46조, ftoday)에서 7월 하순 상향(g-enews). 본문은 최신 집계만 사용 | 글로벌이코노믹(7/21)·다음/연합 |
 | 미국 2분기 GDP 속보 7/30 08:30 ET(한국 21:30), FOMC 결정 7/29 14:00 ET(한국 7/30 03:00), MS·메타 실적 7/29 장 마감 후 | 일정 페이지·공지 | BEA 일정(financecalendar)·FedRateCalc·Microsoft·StockTitan |
 
-주의해 걸러낸 것들:
-- ‘Anthropic 몸값 3배’ 표현(일부 보도) → 3,800→9,650억은 약 2.5배이므로 배수 표현 대신 금액으로 표기.
-- 순이익에는 현금이 따라오지 않는 평가이익이 대부분 → ‘사상 최대 이익’은 항상 착시 단서와 함께 서술.
-- ‘조정 EPS 2.62달러(1센트 미달)’ 보도(TechTimes)는 평가이익 조정 범위가 다른 집계와 상충 → 본문에서 특정 조정 EPS 값을 단정하지 않고 ‘예상을 크게 벗어나지 않는 수준’으로 서술.
-- ATM 프로그램(400억 달러 한도)은 사용 목적이 임직원 주식보상 세금 납부로 명시 → 설비투자 재원으로 오인될 수 있어 본문에서 제외.
-- ‘14개월 만의 최대 하락’(Schaeffer's)은 장중(eyes) 표현 → 종가 기준 확인 불가로 미사용.
+리뷰(2026-07-24 오후)로 교정·폐기한 것들:
+- ‘부족한 현금을 조달로 메웠다’는 인과 → 폐기. TTM FCF +533억·현금 2,425억을 병기하고
+  ‘지출이 분기 영업현금을 앞지르자 조달 폭을 넓혔다’로 재서술. 소제목도 교체.
+- ‘자사주 매입 중단’ → ‘올해 상반기 집행 0’(프로그램 폐지 여부 미확인).
+- ‘가장 큰 몫은 Anthropic’ 단정 + 14% 자체 계산 → 10-Q 귀속(SpaceX+미공개 비상장사)과
+  보도·BofA 추정으로 분리, 자체 계산 삭제. 섹션 제목도 ‘영업 밖에서 온 980억 달러’로 교체.
+- EPS 6.26달러 ‘월가 집계’ 귀속 → 발표문 각주 공식치로 교정(219억·771억·6.26 병기).
+- 수주잔고 ‘1년 새 두 배’(FX Leaders) → 1,060억→5,140억(4.85배)으로 교정.
+- Azure 성장률 35% 기준선 → 공식 가이던스와 상충 소지로 수치 삭제(감속 여부로만 표기).
+- 감가상각 ‘당기 지출의 약 1/6’ 병치 → 증가율 대비(2배 vs +42%)와 시점 불일치 명시로 교체.
+- 한국 GDI 문단의 ‘수요의 원천이 정확히 하이퍼스케일러 capex’ → trend13의 식별 한계와
+  일관되게 ‘검증할 연결 가설’로 하향.
+- ‘Anthropic 몸값 3배’(일부 보도) → 2.5배이므로 금액으로만 표기(초안 단계에서 걸러냄).
+- ‘조정 EPS 2.62달러’(TechTimes)·‘14개월 만의 최대 하락’(장중 기준) → 미사용(초안 단계).
+- ATM 프로그램(400억 한도)은 용도가 주식보상 세금 납부 → 설비투자 재원 오인 소지로 본문 제외.
 
 ## 그림 재현
 
 ```bash
 cd docs/03-analysis/alphabet-receipts/scripts
 python3 make_cover.py --out ../../../../assets/images/post/trend14_cover.png
-python3 fig01_cash_receipts.py --out ../../../../assets/images/post/trend14/fig01_cash_receipts.png
-python3 fig02_capex_depreciation.py --out ../../../../assets/images/post/trend14/fig02_capex_depreciation.png
+python3 fig01_cash_receipts.py --out ../../../../static/images/post/trend14/fig01_cash_receipts.png
+python3 fig02_capex_depreciation.py --out ../../../../static/images/post/trend14/fig02_capex_depreciation.png
 ```
 
-세 스크립트 모두 원자료 수치를 상수로 내장하고 표기값과의 정합을 assert로 검산한다
-(그림 1·2는 텍스트 겹침 레이아웃 검사 포함). 의존성은 matplotlib뿐이다.
+- 배포 경로: 커버는 `assets/`(프런트매터 썸네일, Hugo Pipes 처리), 본문 그림은
+  `static/images/post/trend14/`(마크다운이 `/images/post/trend14/...` URL을 직접 참조).
+  trend13과 동일한 관례. 초안에서 본문 그림을 `assets/`에 두어 404가 나던 문제를 교정.
+- 세 스크립트 모두 원자료 수치를 상수로 내장하고 표기값과의 정합을 assert로 검산하며,
+  렌더링 후 텍스트 겹침·잘림 검사를 수행한다(커버 포함).
+- 실행 환경 기록: Python 3.13.9, matplotlib 3.10.6, 폰트 Apple SD Gothic Neo(macOS).
+  PDF 원자료를 파싱해 상수와 대조하는 자동 검증은 미구현 — 위 표의 수동 대조 기록이 그 역할을 대신한다.
